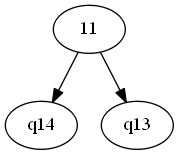
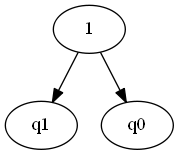
Implementacion de la funcion parentesis Se implementa la funcion parentesis para el tratamiento de los parentesis, y se modifica la funcion estrella_kleen

Changed region(s): [[0.1397, 0.7484, 0.3073, 0.8774], [0.6704, 0.7484, 0.838, 0.8774], [0.4469, 0.129, 0.5307, 0.2323]]

diff --git a/Automata.py b/Automata.py
@@ -70,17 +70,31 @@ def dibujarAutomata(G ,nodesAutomata ,nombre_archivo):
 #####################################################################################################33333333
 def estrella_kleen(nodoPadre, subArbol, automata, estado, nodesAutomata, nodesArbol):
     global estadoInicial
-    automata, estado = transicion(nodoPadre, subArbol, automata, estado, nodesAutomata, nodesArbol)
+    nInicial = ""
+    nFinal = ""
     
-    nombre = "q" + str(estado - 2)
-    nFinal = make_node_automata(nodesAutomata, True, nombre)
+    if len(subArbol) > 1:
+        nodo1 = list(subArbol.keys())[0]
+        nodesAutomata[nodo1].estado = True
+        nodo2 = list(subArbol.keys())[1]
+        nodesAutomata[nodo2]. estado = True
 
-    nombre = "q" + str(estado - 1)
-    nInicial = make_node_automata(nodesAutomata, False, nombre)
+        if nodesArbol[nodo1].estado == True:
+            nInicial = nodo1
+            nFinal = nodo2
+        else:
+            nInicial = nodo2
+            nFinal = nodo1
+    else:
+        automata, estado = transicion(nodoPadre, subArbol, automata, estado, nodesAutomata, nodesArbol)
+        
+        nombre = "q" + str(estado - 2)
+        nInicial = make_node_automata(nodesAutomata, True, nombre)
 
-    estadoInicial = nombre
+        nombre = "q" + str(estado - 1)
+        nFinal = make_node_automata(nodesAutomata, True, nombre)
 
-    make_link_automata(automata, nInicial, nFinal, "lambda")
+    make_link_automata(automata, nFinal, nInicial, "lambda")
     return nInicial, nFinal
 
 def super_mas(nodoPadre, subArbol, automata, estado, nodesAutomata, nodesArbol):
@@ -109,7 +123,6 @@ def op_or(nodoPadre, subArbol, automata, estado, nodesAutomata, nodesArbol):
     nFinal = make_node_automata(nodesAutomata, True, nombre)
 
     for node1 in subArbol:
-        print(node1)
         for node2 in arbol[node1]:
             if nodesArbol[node2].estado:
                 nodosIniciales.append(node2)
@@ -165,8 +178,38 @@ def op_and(nodoPadre, subArbol, automata, estado, nodesAutomata, nodesArbol):
   
     return automata, estado
 
-def sel_operacion (nodoPadre, subArbol, automata, estado, nodesAutomata, nodesArbol):
+def parentesis(nodoPadre,subArbol):
+    del subArbol['(']
+    del subArbol[')']
+    node1 = list(subArbol.keys())[0]
+    node2 = list(subArbol.keys())[1]
+    token = "" 
+
+    if type(node1) == int:
+        for i in arbol[node1].keys():
+            make_link(arbol, nodoPadre, i)
+        del arbol[node1]
+        del arbol[nodoPadre][node1]
+    else:
+        token = node1
+
+    if type(node2) == int:
+        for i in arbol[node2].keys():
+            make_link(arbol, nodoPadre, i)
+        del arbol[node2]
+        del arbol[nodoPadre][node2]
+    else:
+        token = node1
+
+    make_link(arbol,nodoPadre,token)
+    return arbol[nodoPadre]
         
+
+def sel_operacion (nodoPadre, subArbol, automata, estado, nodesAutomata, nodesArbol):
+    
+    if '(' in subArbol:
+        subArbol = parentesis(nodoPadre, subArbol)
+        print("--------------------",subArbol)
     dicOperaciones = {'*':estrella_kleen,'+':super_mas,'|':op_or}
     operador = ""
     token = ""
@@ -233,6 +276,8 @@ def crearAutomata(arbol, operaciones):
         else:
             automata, count = transicion(i, subArbol, automata, count, nodesAutomata, nodesArbol)
         i += 1
+        dibujarAutomata(automata,nodesAutomata,"Automata")
+    
     print (automata)
     dibujarAutomata(automata,nodesAutomata,"Automata")
     return automata, arbol
@@ -243,7 +288,9 @@ def crearAutomata(arbol, operaciones):
 #arbol = {1: {'a': 1}, 2: {'b': 1}, 3: {1: 1, 2: 1}, 4: {'c': 1}, 5: {3: 1, 4: 1}, 6: {'d': 1}, 7: {5: 1, 6: 1}}
 #arbol = {1: {'a': 1}, 2: {'b': 1}, 3: {1: 1, 2: 1, '|': 1}}
 #arbol = {1: {'a': 1, '*': 1}, 2: {'b': 1}, 3: {1: 1, 2: 1}, 4: {'+': 1, 'c': 1}, 5: {'d': 1}, 6: {4: 1, 5: 1}, 7: {'|': 1, 3: 1, 6: 1}}
-arbol = {1: {'a': 1, '*': 1}, 2: {'+': 1, 'b': 1}, 3: {1: 1, 2: 1}, 4: {'x': 1}, 5: {3: 1, 4: 1}, 6: {'+': 1, 'c': 1}, 7: {'d': 1, '*': 1}, 8: {6: 1, 7: 1}, 9: {'y': 1}, 10: {8: 1, 9: 1}, 11: {10: 1, 5: 1, '|': 1}}
+#arbol = {1: {'a': 1, '*': 1}, 2: {'+': 1, 'b': 1}, 3: {1: 1, 2: 1}, 4: {'x': 1}, 5: {3: 1, 4: 1}, 6: {'+': 1, 'c': 1}, 7: {'d': 1, '*': 1}, 8: {6: 1, 7: 1}, 9: {'y': 1}, 10: {8: 1, 9: 1}, 11: {10: 1, 5: 1, '|': 1}}
+arbol = {1: {'a': 1}, 2: {'b': 1}, 3: {1: 1, 2: 1, '|': 1}, 4: {')': 1, 3: 1, '*': 1, '(': 1}}
+
 #prueba arbol completo
 #arbol = {1: {'a': 1}, 2: {'+': 1, 'x': 1}, 3: {'y': 1}, 4: {2: 1, 3: 1}, 5: {'(': 1, 4: 1, ')': 1}, 6: {'*': 1, 5: 1}, 7: {'*': 1, 'b': 1}, 8: {'c': 1}, 9: {8: 1, 7: 1}, 10: {9: 1, '(': 1, ')': 1}, 11: {10: 1, '+': 1}, 12: {11: 1, 6: 1, '|': 1}, 13: {'(': 1, 12: 1, ')': 1}, 14: {1: 1, 13: 1}, 15: {'s': 1}, 16: {14: 1, 15: 1}}
 

diff --git a/arbol_de_significado.py b/arbol_de_significado.py
@@ -150,7 +150,9 @@ def hacerArbol(ER):
         """
         if token != '(':
             dibujarArbol(arbol,str(i))  
-        
+    
+    if 0 in arbol[numNodo]:
+        del arbol[numNodo]
     manejoOperaciones('fin',arbol)   
     return arbol
     
